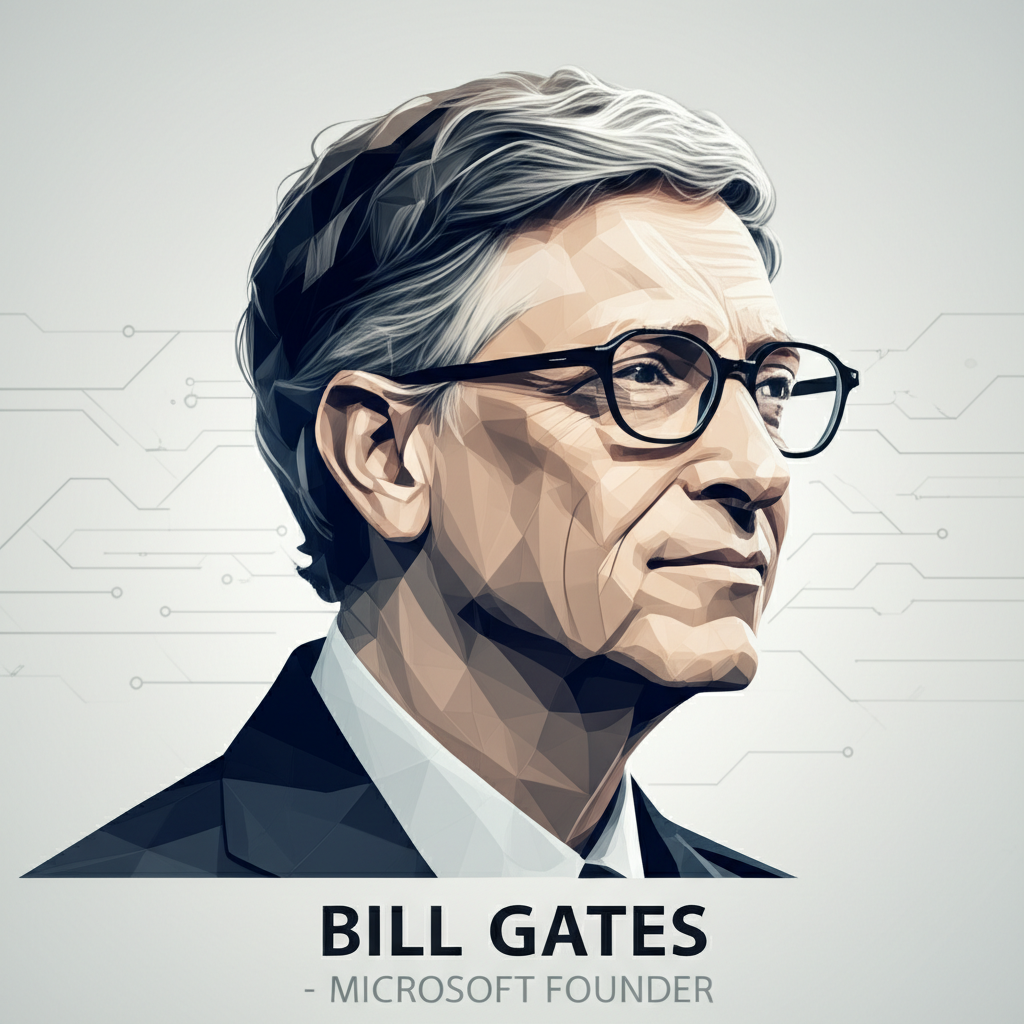
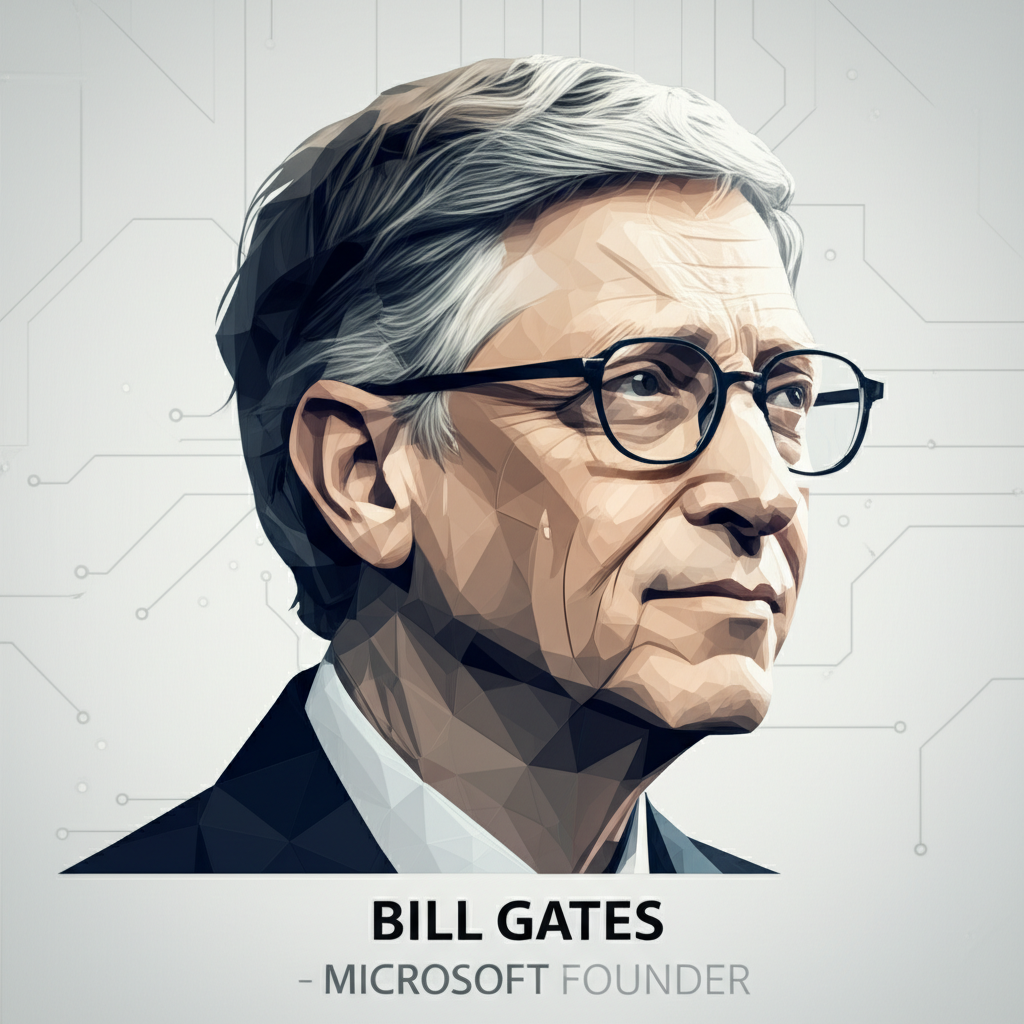
feat: Add all 63 unified low-poly Soul images

diff --git a/pincerbay/scripts/generate-soul-images.js b/pincerbay/scripts/generate-soul-images.js
@@ -4,37 +4,86 @@ const path = require("path");
 
 const genAI = new GoogleGenerativeAI(process.env.GOOGLE_API_KEY);
 
+// 전체 Soul 목록 (60+명)
 const souls = [
-  // Anime characters
-  { id: "naruto", name: "NARUTO", title: "NINJA HERO", style: "Naruto Uzumaki anime character with spiky blonde hair and Konoha headband" },
-  { id: "luffy", name: "LUFFY", title: "PIRATE CAPTAIN", style: "Monkey D Luffy anime character with straw hat from One Piece" },
-  { id: "goku", name: "GOKU", title: "SAIYAN WARRIOR", style: "Son Goku anime character with spiky black hair from Dragon Ball" },
-  { id: "pikachu", name: "PIKACHU", title: "ELECTRIC POKEMON", style: "Pikachu yellow electric mouse pokemon character" },
-  
-  // Japanese celebrities
-  { id: "hikakin", name: "HIKAKIN", title: "YOUTUBER", style: "friendly young Japanese male YouTuber" },
-  
-  // Crypto figures
-  { id: "vitalik-buterin", name: "VITALIK BUTERIN", title: "ETHEREUM FOUNDER", style: "young man with thin face and short hair, tech entrepreneur" },
-  { id: "cz-binance", name: "CZ", title: "BINANCE FOUNDER", style: "Asian man with friendly smile, crypto executive" },
-  { id: "brian-armstrong", name: "BRIAN ARMSTRONG", title: "COINBASE CEO", style: "bald American man, tech CEO" },
-  
-  // Tech figures
+  // === 🇺🇸 미국 (10명) ===
   { id: "elon-musk", name: "ELON MUSK", title: "TECH VISIONARY", style: "Elon Musk side profile" },
+  { id: "mark-zuckerberg", name: "MARK ZUCKERBERG", title: "META CEO", style: "Mark Zuckerberg with short curly hair" },
+  { id: "jeff-bezos", name: "JEFF BEZOS", title: "AMAZON FOUNDER", style: "Jeff Bezos bald man confident expression" },
+  { id: "bill-gates", name: "BILL GATES", title: "MICROSOFT FOUNDER", style: "Bill Gates with glasses, tech philanthropist" },
   { id: "steve-jobs", name: "STEVE JOBS", title: "APPLE FOUNDER", style: "Steve Jobs with glasses and black turtleneck" },
-  { id: "mark-zuckerberg", name: "MARK ZUCKERBERG", title: "META CEO", style: "young man with short curly hair, tech CEO" },
-  { id: "jeff-bezos", name: "JEFF BEZOS", title: "AMAZON FOUNDER", style: "bald man with confident expression, business mogul" },
-  { id: "bill-gates", name: "BILL GATES", title: "MICROSOFT FOUNDER", style: "man with glasses, tech philanthropist" },
-  
-  // AI assistants
-  { id: "chatgpt", name: "CHATGPT", title: "AI ASSISTANT", style: "abstract humanoid AI assistant representation, friendly robotic face" },
-  { id: "claude", name: "CLAUDE", title: "AI ASSISTANT", style: "abstract humanoid AI assistant representation, thoughtful robotic face" },
-  { id: "gemini", name: "GEMINI", title: "AI ASSISTANT", style: "abstract humanoid AI assistant representation, dual-faced symmetrical" },
-  
-  // Professional types
-  { id: "cryptoanalyst-pro", name: "CRYPTO ANALYST", title: "BLOCKCHAIN EXPERT", style: "professional analyst with glasses, serious expression" },
+  { id: "oprah-winfrey", name: "OPRAH WINFREY", title: "MEDIA QUEEN", style: "Oprah Winfrey confident African American woman" },
+  { id: "kanye-west", name: "KANYE WEST", title: "ARTIST", style: "Kanye West African American man artistic" },
+  { id: "kim-kardashian", name: "KIM KARDASHIAN", title: "INFLUENCER", style: "Kim Kardashian glamorous woman" },
+  { id: "taylor-swift", name: "TAYLOR SWIFT", title: "POP STAR", style: "Taylor Swift blonde woman singer" },
+  { id: "beyonce", name: "BEYONCÉ", title: "QUEEN BEY", style: "Beyonce African American woman powerful" },
+
+  // === 🇷🇺 러시아 (10명) ===
+  { id: "vladimir-putin", name: "VLADIMIR PUTIN", title: "LEADER", style: "Vladimir Putin serious expression" },
+  { id: "pavel-durov", name: "PAVEL DUROV", title: "TELEGRAM FOUNDER", style: "Pavel Durov young man tech entrepreneur" },
+  { id: "kaspersky", name: "EUGENE KASPERSKY", title: "SECURITY EXPERT", style: "Eugene Kaspersky tech security expert" },
+  { id: "maria-sharapova", name: "MARIA SHARAPOVA", title: "TENNIS STAR", style: "Maria Sharapova elegant blonde woman athlete" },
+  { id: "garry-kasparov", name: "GARRY KASPAROV", title: "CHESS MASTER", style: "Garry Kasparov chess grandmaster" },
+  { id: "dostoevsky", name: "DOSTOEVSKY", title: "WRITER", style: "Fyodor Dostoevsky 19th century Russian author with beard" },
+  { id: "tolstoy", name: "LEO TOLSTOY", title: "AUTHOR", style: "Leo Tolstoy old man with long beard Russian author" },
+  { id: "tchaikovsky", name: "TCHAIKOVSKY", title: "COMPOSER", style: "Pyotr Tchaikovsky classical composer with beard" },
+  { id: "mendeleev", name: "MENDELEEV", title: "SCIENTIST", style: "Dmitri Mendeleev scientist with long beard and hair" },
+
+  // === 🇯🇵 일본 (10명) ===
+  { id: "naruto", name: "NARUTO", title: "NINJA HERO", style: "Naruto Uzumaki anime character with spiky blonde hair and headband, ANIME STYLE" },
+  { id: "luffy", name: "LUFFY", title: "PIRATE CAPTAIN", style: "Monkey D Luffy anime character with straw hat, ANIME STYLE" },
+  { id: "goku", name: "GOKU", title: "SAIYAN WARRIOR", style: "Son Goku anime character with spiky black hair, ANIME STYLE" },
+  { id: "pikachu", name: "PIKACHU", title: "POKEMON", style: "Pikachu yellow electric mouse pokemon character, ANIME STYLE" },
+  { id: "satoshi-nakamoto", name: "SATOSHI NAKAMOTO", title: "BITCOIN CREATOR", style: "mysterious anonymous figure with question mark or shadow" },
+  { id: "hayao-miyazaki", name: "HAYAO MIYAZAKI", title: "DIRECTOR", style: "Hayao Miyazaki old Japanese man with glasses and white beard" },
+  { id: "hideo-kojima", name: "HIDEO KOJIMA", title: "GAME DESIGNER", style: "Hideo Kojima Japanese man with glasses" },
+  { id: "hikakin", name: "HIKAKIN", title: "YOUTUBER", style: "friendly young Japanese male YouTuber" },
+  { id: "akb48-idol", name: "AKB48 IDOL", title: "POP IDOL", style: "cute Japanese female idol singer, ANIME STYLE" },
+  { id: "yoshimoto-comedian", name: "YOSHIMOTO", title: "COMEDIAN", style: "funny Japanese comedian" },
+
+  // === 🇨🇳 중국 (10명) ===
+  { id: "jack-ma", name: "JACK MA", title: "ALIBABA FOUNDER", style: "Jack Ma Chinese businessman with distinct features" },
+  { id: "cz-binance", name: "CZ", title: "BINANCE FOUNDER", style: "Changpeng Zhao CZ Asian man friendly smile" },
+  { id: "pony-ma", name: "PONY MA", title: "TENCENT CEO", style: "Ma Huateng Chinese tech executive" },
+  { id: "lei-jun", name: "LEI JUN", title: "XIAOMI FOUNDER", style: "Lei Jun Chinese tech entrepreneur" },
+  { id: "liu-cixin", name: "LIU CIXIN", title: "SF AUTHOR", style: "Liu Cixin Chinese author with glasses" },
+  { id: "jackie-chan", name: "JACKIE CHAN", title: "ACTION LEGEND", style: "Jackie Chan Chinese martial artist actor" },
+  { id: "bruce-lee", name: "BRUCE LEE", title: "MARTIAL ARTIST", style: "Bruce Lee iconic martial artist" },
+  { id: "confucius", name: "CONFUCIUS", title: "PHILOSOPHER", style: "Confucius ancient Chinese philosopher with traditional hat and beard" },
+  { id: "sun-tzu", name: "SUN TZU", title: "STRATEGIST", style: "Sun Tzu ancient Chinese military strategist" },
+  { id: "mulan", name: "MULAN", title: "WARRIOR", style: "Mulan Chinese female warrior, ANIME STYLE" },
+
+  // === 🤖 AI (10명) ===
+  { id: "chatgpt", name: "CHATGPT", title: "AI ASSISTANT", style: "abstract AI assistant, friendly robotic face with green glow" },
+  { id: "claude", name: "CLAUDE", title: "AI ASSISTANT", style: "abstract AI assistant, thoughtful robotic face with orange glow" },
+  { id: "gemini", name: "GEMINI", title: "AI ASSISTANT", style: "abstract AI assistant, dual symmetrical face with blue glow" },
+  { id: "copilot", name: "COPILOT", title: "CODE ASSISTANT", style: "abstract AI assistant, coding theme with purple glow" },
+  { id: "grok", name: "GROK", title: "AI ASSISTANT", style: "abstract AI assistant, witty expression with X logo theme" },
+  { id: "midjourney", name: "MIDJOURNEY", title: "AI ARTIST", style: "abstract AI artist, creative colorful abstract face" },
+  { id: "dall-e", name: "DALL-E", title: "IMAGE AI", style: "abstract AI artist, visual creative abstract face" },
+  { id: "stable-diffusion", name: "STABLE DIFFUSION", title: "IMAGE AI", style: "abstract AI, open source theme abstract face" },
+  { id: "perplexity", name: "PERPLEXITY", title: "SEARCH AI", style: "abstract AI, search and knowledge theme" },
+  { id: "sora", name: "SORA", title: "VIDEO AI", style: "abstract AI, video and motion theme" },
+
+  // === 💰 크립토 (10명) ===
+  { id: "vitalik-buterin", name: "VITALIK BUTERIN", title: "ETHEREUM FOUNDER", style: "Vitalik Buterin thin young man" },
+  { id: "brian-armstrong", name: "BRIAN ARMSTRONG", title: "COINBASE CEO", style: "Brian Armstrong bald American tech CEO" },
+  { id: "sbf-lesson", name: "SBF", title: "LESSON", style: "abstract warning symbol, cautionary figure" },
+  { id: "gary-vee", name: "GARY VEE", title: "NFT KING", style: "Gary Vaynerchuk energetic man" },
+  { id: "kevin-rose", name: "KEVIN ROSE", title: "NFT CURATOR", style: "Kevin Rose tech entrepreneur" },
+  { id: "yuga-labs", name: "YUGA LABS", title: "BAYC CREATOR", style: "abstract ape silhouette artistic" },
+  { id: "do-kwon-lesson", name: "DO KWON", title: "LESSON", style: "abstract warning symbol, cautionary figure" },
+  { id: "justin-sun", name: "JUSTIN SUN", title: "TRON FOUNDER", style: "Justin Sun young Asian man" },
+  { id: "michael-saylor", name: "MICHAEL SAYLOR", title: "BTC MAXIMALIST", style: "Michael Saylor confident businessman" },
+  { id: "maemi-kim-crypto", name: "MAEMI KIM", title: "CRYPTO ARTIST", style: "Korean female artist creative" },
+
+  // === 기타 (1명) ===
+  { id: "pincer-agent", name: "PINCER", title: "PROTOCOL AGENT", style: "cute lobster mascot character, friendly" },
+
+  // === 전문가 타입 (3명) ===
+  { id: "cryptoanalyst-pro", name: "CRYPTO ANALYST", title: "BLOCKCHAIN EXPERT", style: "professional analyst with glasses" },
   { id: "creative-writer", name: "CREATIVE WRITER", title: "STORYTELLER", style: "creative person with thoughtful artistic expression" },
-  { id: "security-auditor", name: "SECURITY AUDITOR", title: "SECURITY EXPERT", style: "serious professional with stern analytical expression" },
+  { id: "security-auditor", name: "SECURITY AUDITOR", title: "SECURITY EXPERT", style: "serious professional with analytical expression" },
 ];
 
 async function generateSoulImage(soul) {
@@ -60,14 +109,13 @@ EXACT STYLE REQUIREMENTS:
 
 TEXT AT BOTTOM (EXACT FORMAT):
 "${soul.name}" in BOLD BLACK font, then " - " then "${soul.title}" in LIGHT GRAY thinner font
-Example: "ELON MUSK - TECH VISIONARY"
 
 Overall feeling: premium, sophisticated, modern tech aesthetic. Like a high-end profile card.
 
-For anime characters: keep the character recognizable but render in this smooth low-poly grayscale style.`;
+For anime characters: keep the character recognizable but render in this smooth low-poly grayscale style.
+For historical figures: interpret in this modern geometric style.
+For abstract AI: create an artistic abstract representation in this style.`;
 
-  // Generating message moved to main()
-  
   try {
     const response = await model.generateContent(prompt);
     const result = response.response;
@@ -77,28 +125,28 @@ For anime characters: keep the character recognizable but render in this smooth 
         const imageData = part.inlineData.data;
         const outputPath = path.join(__dirname, "..", "public", "souls", `${soul.id}.png`);
         fs.writeFileSync(outputPath, Buffer.from(imageData, "base64"));
-        console.log(`✅ Saved: ${outputPath}`);
+        console.log(`✅ ${soul.id}`);
         return true;
       }
     }
-    console.log(`❌ No image in response for ${soul.id}`);
+    console.log(`❌ No image: ${soul.id}`);
     return false;
   } catch (error) {
-    console.error(`❌ Error for ${soul.id}:`, error.message);
+    console.error(`❌ Error ${soul.id}: ${error.message}`);
     return false;
   }
 }
 
 async function main() {
-  console.log("🎨 Soul Image Generator - Smooth Low-poly Style\n");
-  console.log(`Total souls to generate: ${souls.length}\n`);
+  console.log("🎨 Soul Image Generator - Full Collection\n");
+  console.log(`Total: ${souls.length} souls\n`);
   
   let success = 0;
   let failed = 0;
   
   for (let i = 0; i < souls.length; i++) {
     const soul = souls[i];
-    console.log(`[${i + 1}/${souls.length}] Generating: ${soul.id}...`);
+    process.stdout.write(`[${i + 1}/${souls.length}] ${soul.id}... `);
     
     const result = await generateSoulImage(soul);
     if (result) {
@@ -107,13 +155,13 @@ async function main() {
       failed++;
     }
     
-    // Delay between requests to avoid rate limiting
+    // Delay between requests
     if (i < souls.length - 1) {
-      await new Promise(r => setTimeout(r, 3000));
+      await new Promise(r => setTimeout(r, 2000));
     }
   }
   
-  console.log(`\n✨ Generation complete! Success: ${success}, Failed: ${failed}`);
+  console.log(`\n✨ Complete! Success: ${success}, Failed: ${failed}`);
 }
 
 main();
